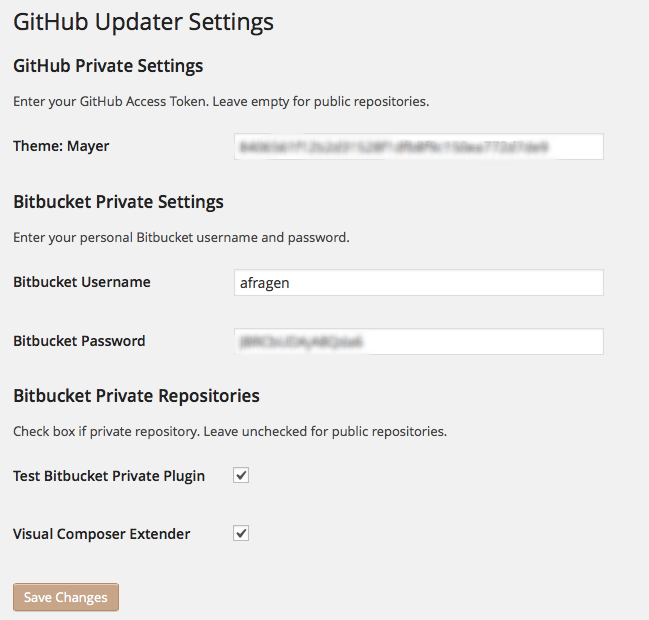
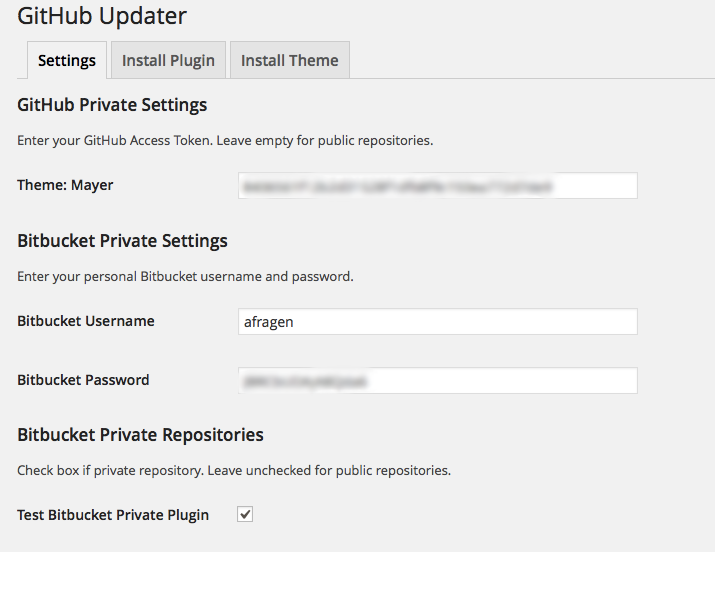
update readme with images of settings/install tabs

diff --git a/README.md b/README.md
@@ -154,7 +154,7 @@ The `Bitbucket Branch` header is supported for both plugins and themes.
 
 Public repositories will not show up in the Settings page.
 
-![Settings Page](./assets/screenshot-1.png)
+![Settings Tab](./assets/screenshot-1.png)
 
 ### GitHub Private Repositories
 
@@ -197,6 +197,8 @@ The same applies for Bitbucket hosted plugins.
 ## Remote Installation of Repositories
 
 From the `GitHub Updater Settings Page` there is a tabbed interface for remote installation of plugins or themes. If you install a private repository you must update the Settings tab so updates will be available.
+
+![Remote Install of Plugin Tab](./assets/screenshot-2.png)
 
 ## Extras
 
